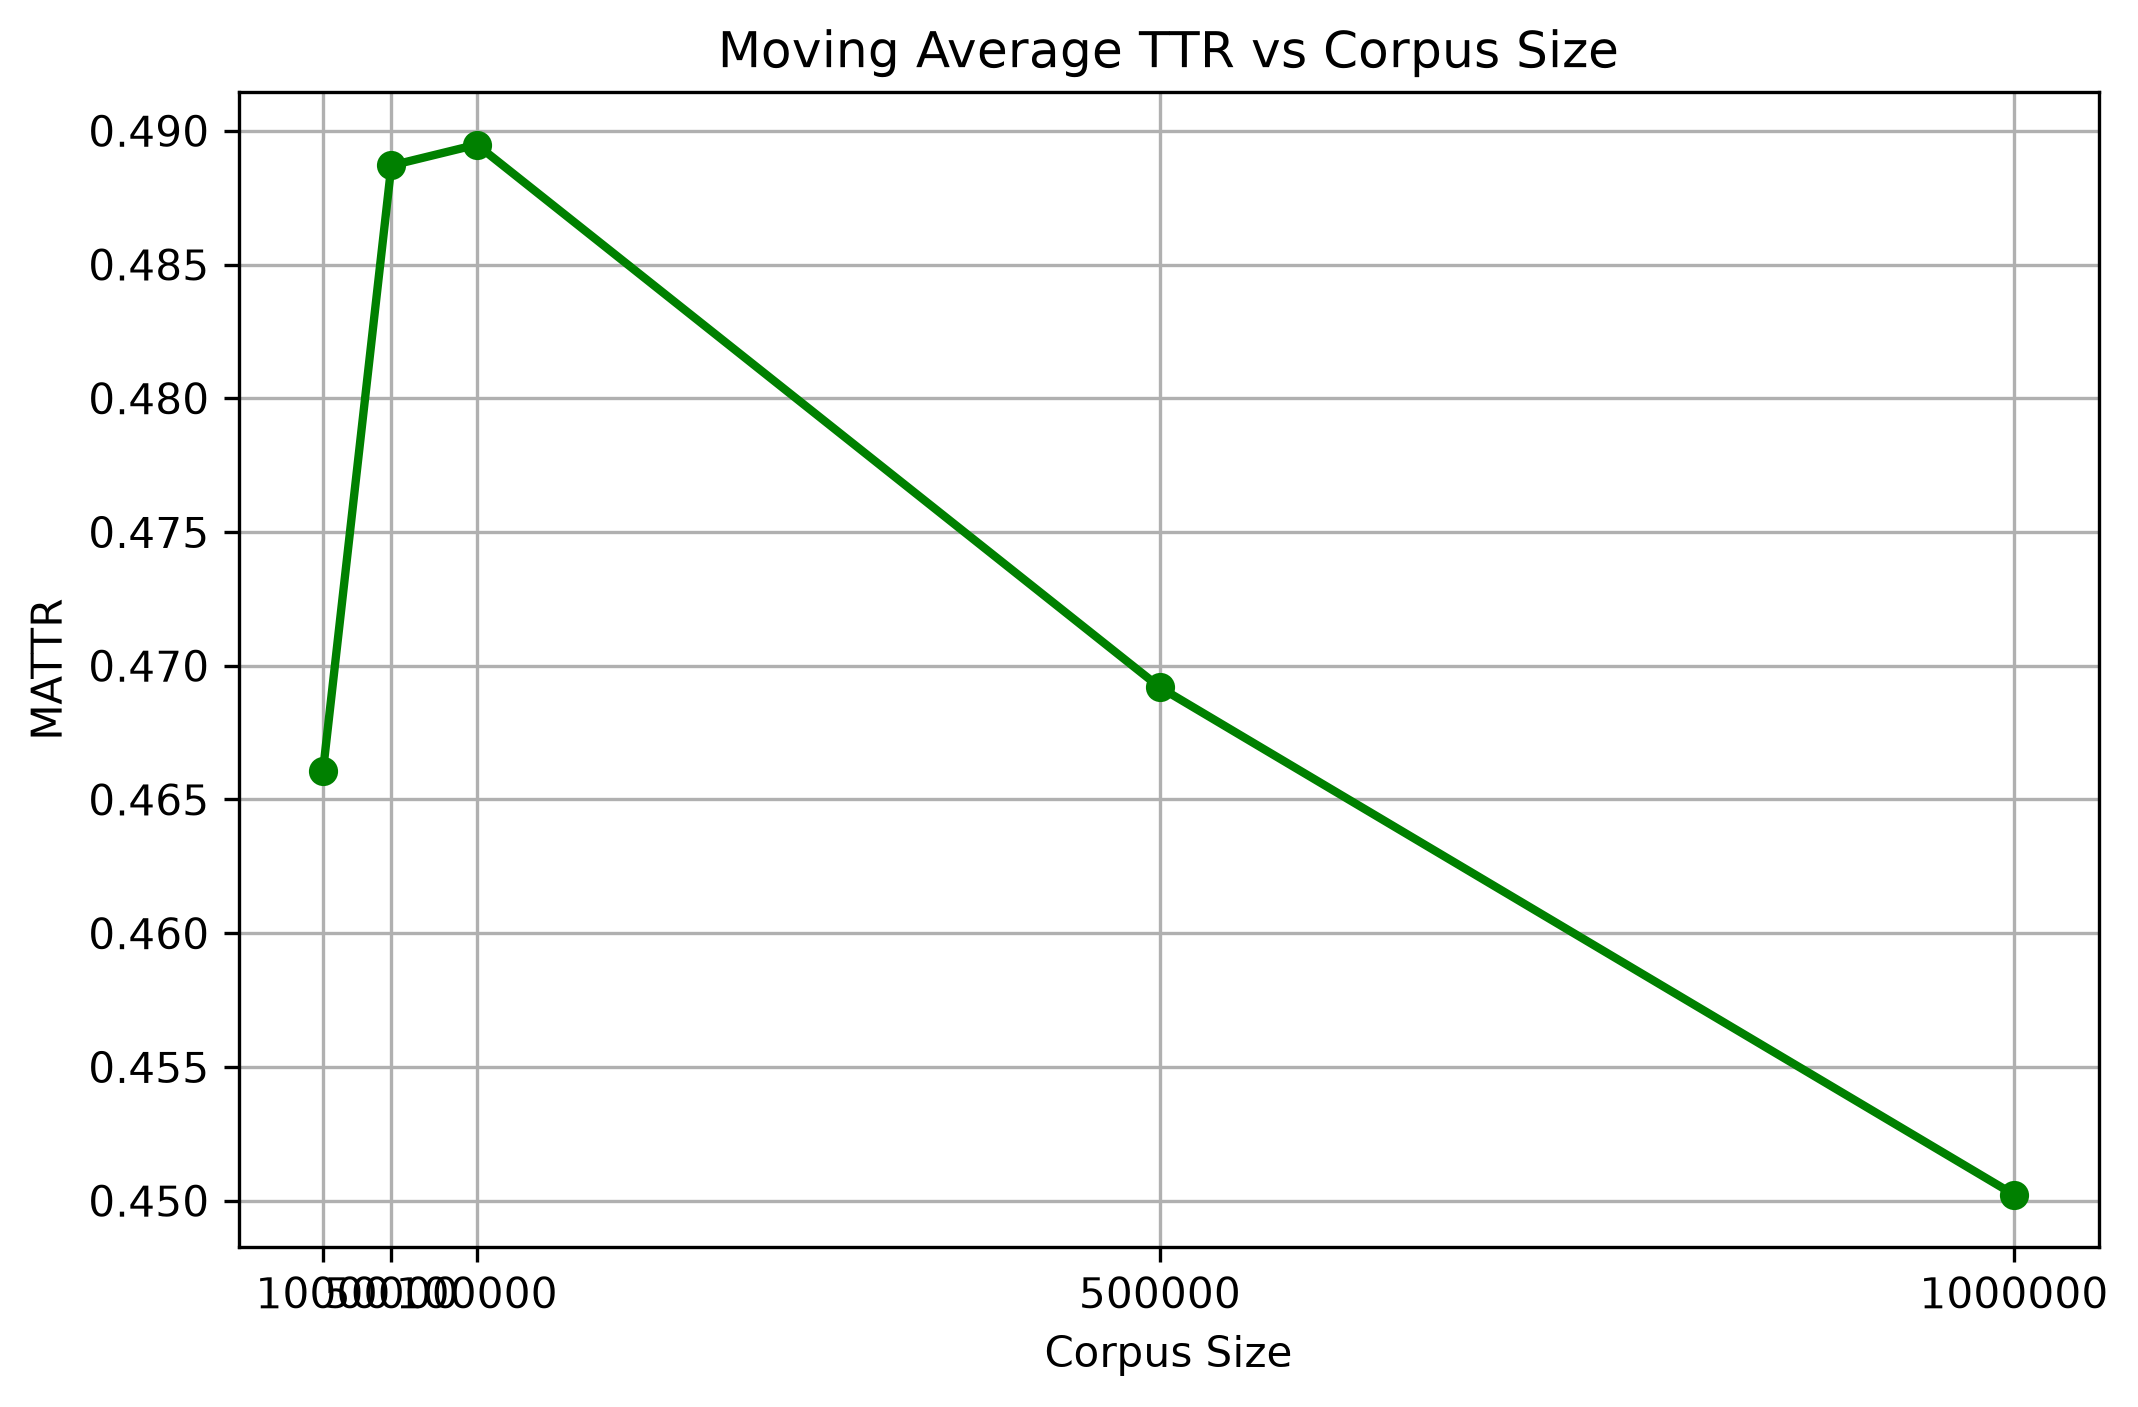
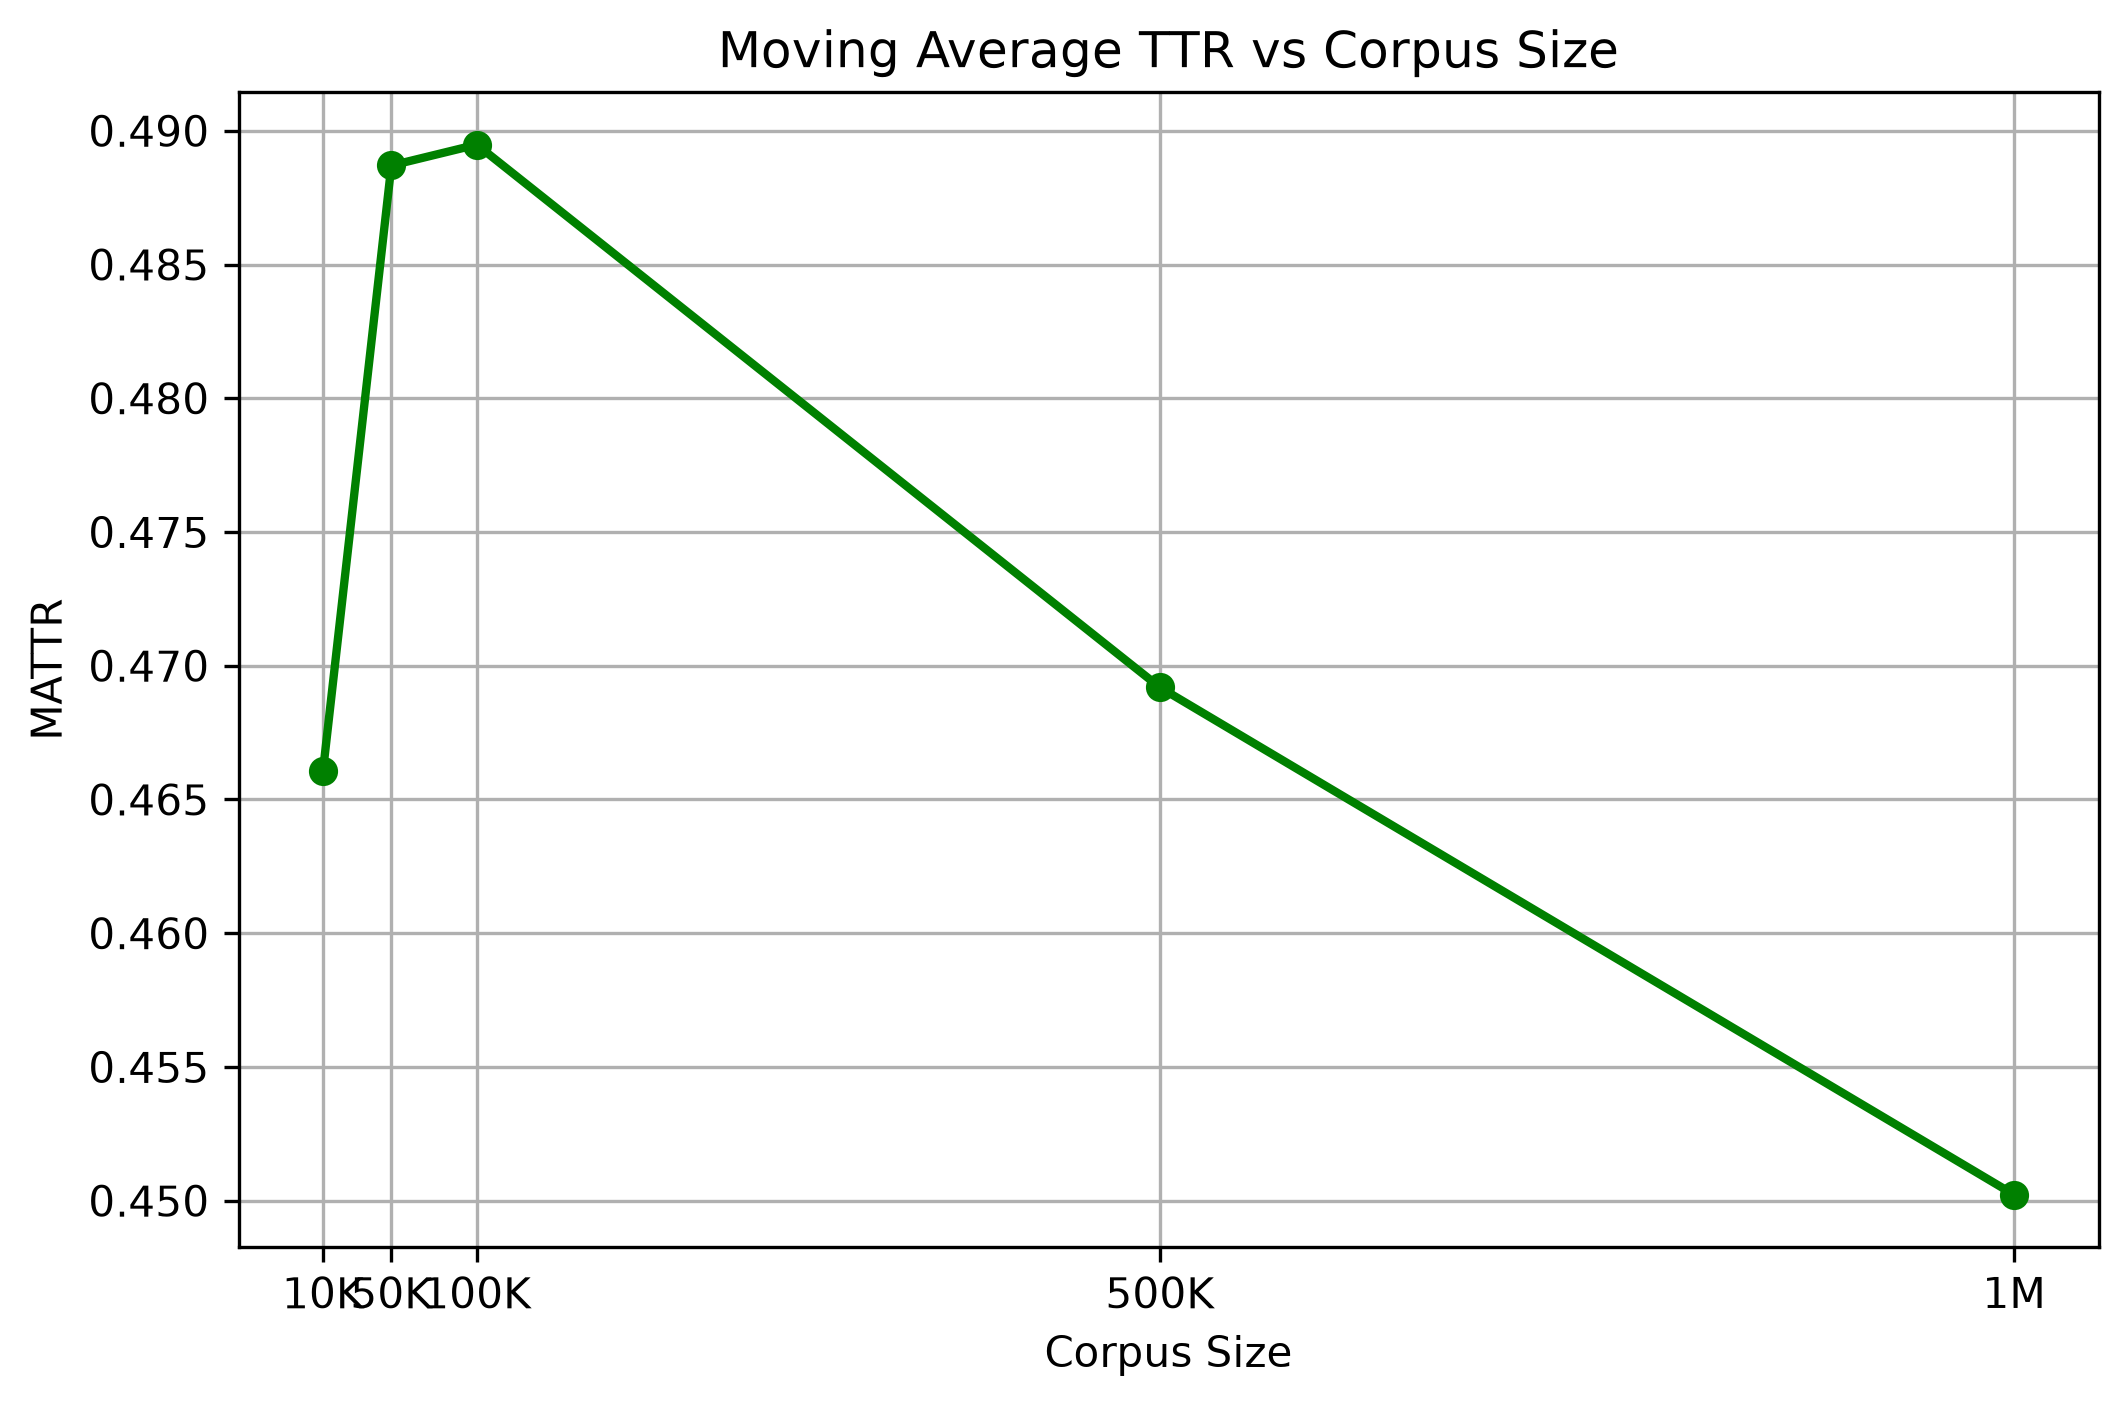
fix plot error for part1

diff --git a/assignment_1/part1_zipf.py b/assignment_1/part1_zipf.py
@@ -348,9 +348,15 @@ plt.xticks(
         "1M"
     ]
 )
-plt.ticklabel_format(
-    style="plain",
-    axis="x"
+plt.xticks(
+    corpus_sizes,
+    [
+        "10K",
+        "50K",
+        "100K",
+        "500K",
+        "1M"
+    ]
 )
 
 plt.title("Type Token Ratio vs Corpus Size")
@@ -476,9 +482,15 @@ plt.xticks(
     ]
 )
 
-plt.ticklabel_format(
-    style="plain",
-    axis="x"
+plt.xticks(
+    corpus_sizes,
+    [
+        "10K",
+        "50K",
+        "100K",
+        "500K",
+        "1M"
+    ]
 )
 
 plt.title("Moving Average TTR vs Corpus Size")

diff --git a/assignment_1/README.md b/assignment_1/README.md
@@ -1,0 +1,35 @@
+## NLU Assignment-1 
+> Student: Krishnendu Halder | Roll : G25AIT1077
+
+*The steps mentioned here are same for all*
+
+
+### Pre-requisite
+- python should be installed
+- Preferred IDE should be present for better readability and execution (example: VSCode)
+- Set virtual environment (.venv) before execution
+- Download the .zip file and extract all the files to a specific location (say: C:/users/ai)
+- Open IDE or Terminal on that location and follow the further instructions
+
+### How to install dependencies ?
+ All required libraries are defined in `requirement.txt` file. Run the below command on Terminal
+>  use python / python3 according to the python version installed
+
+-  python3 -m pip install -r requirement.txt   
+
+### How to Run?
+
+- For `part1_zipf.py` : 
+    > python part1_zipf.py
+
+- For `part2_language_model.py` : 
+    > python part2_language_model.py
+
+- For `part3_hmm_tagger.py` : 
+    > python part3_hmm_tagger.py
+
+### Output
+
+The assignment's output will store in a folder called `output`, which will be automatically created (if not already) upon running `part1_zipf.py`
+
+*Also recommended to check console logs, which will provide more clarity on the execution*